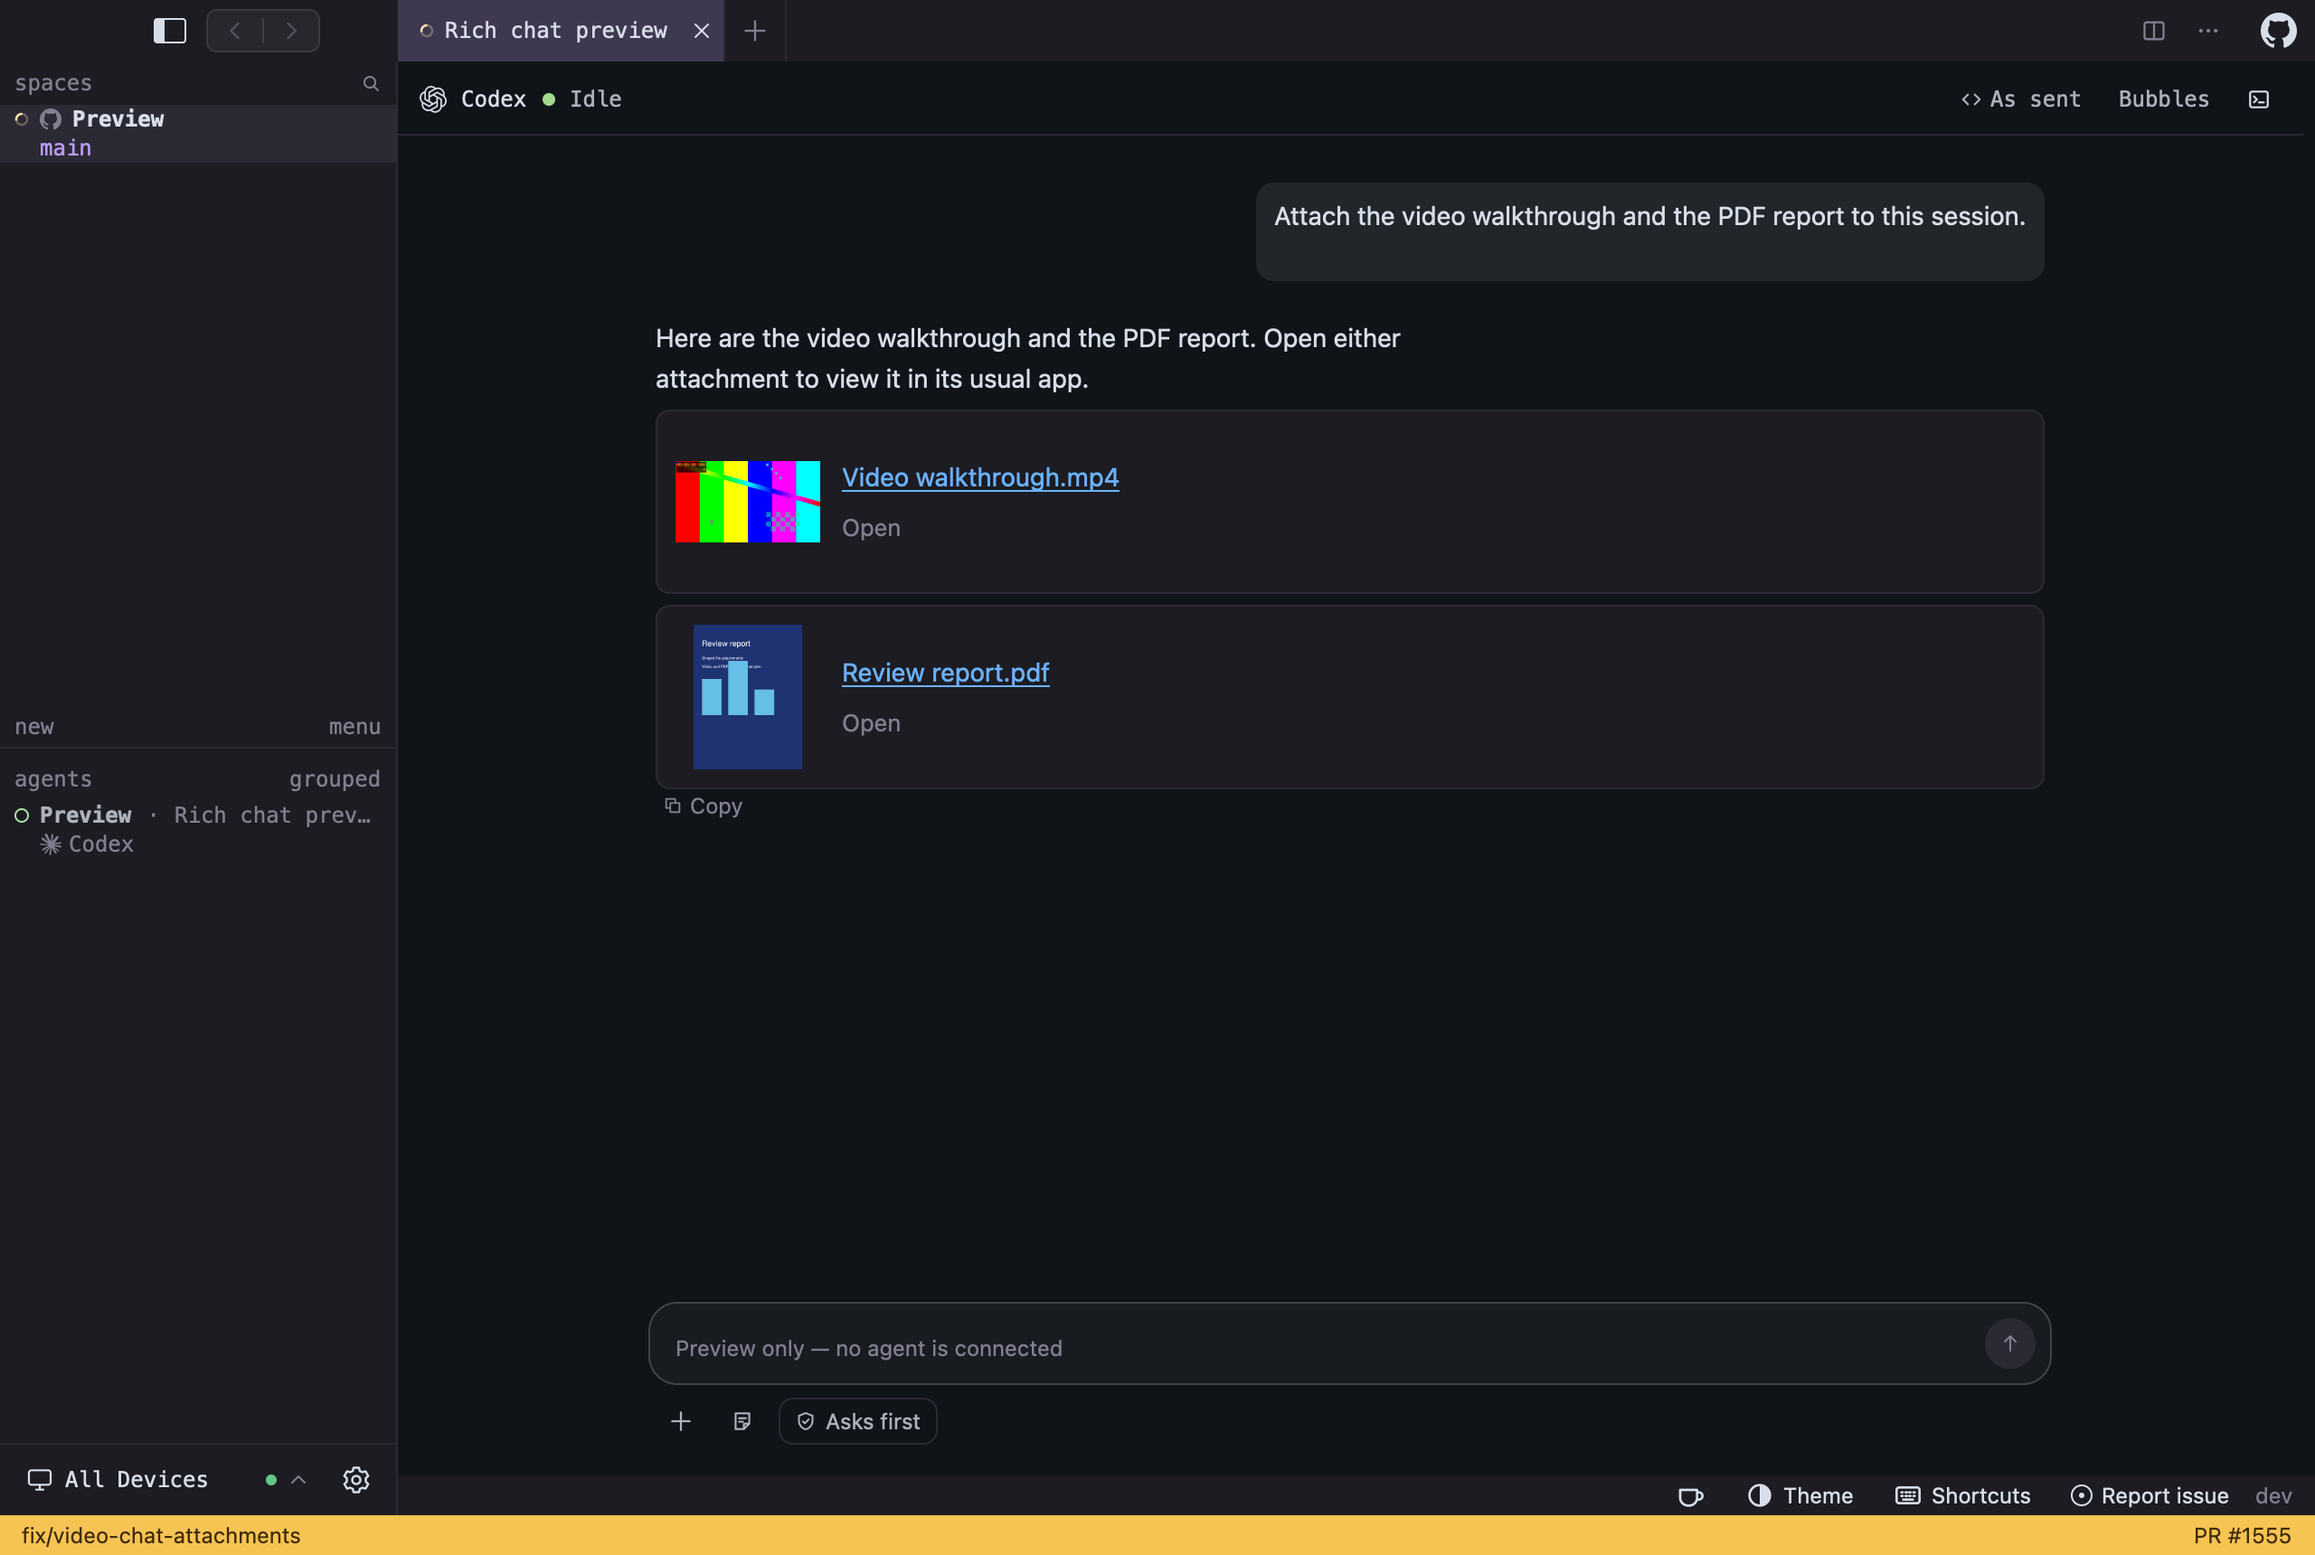
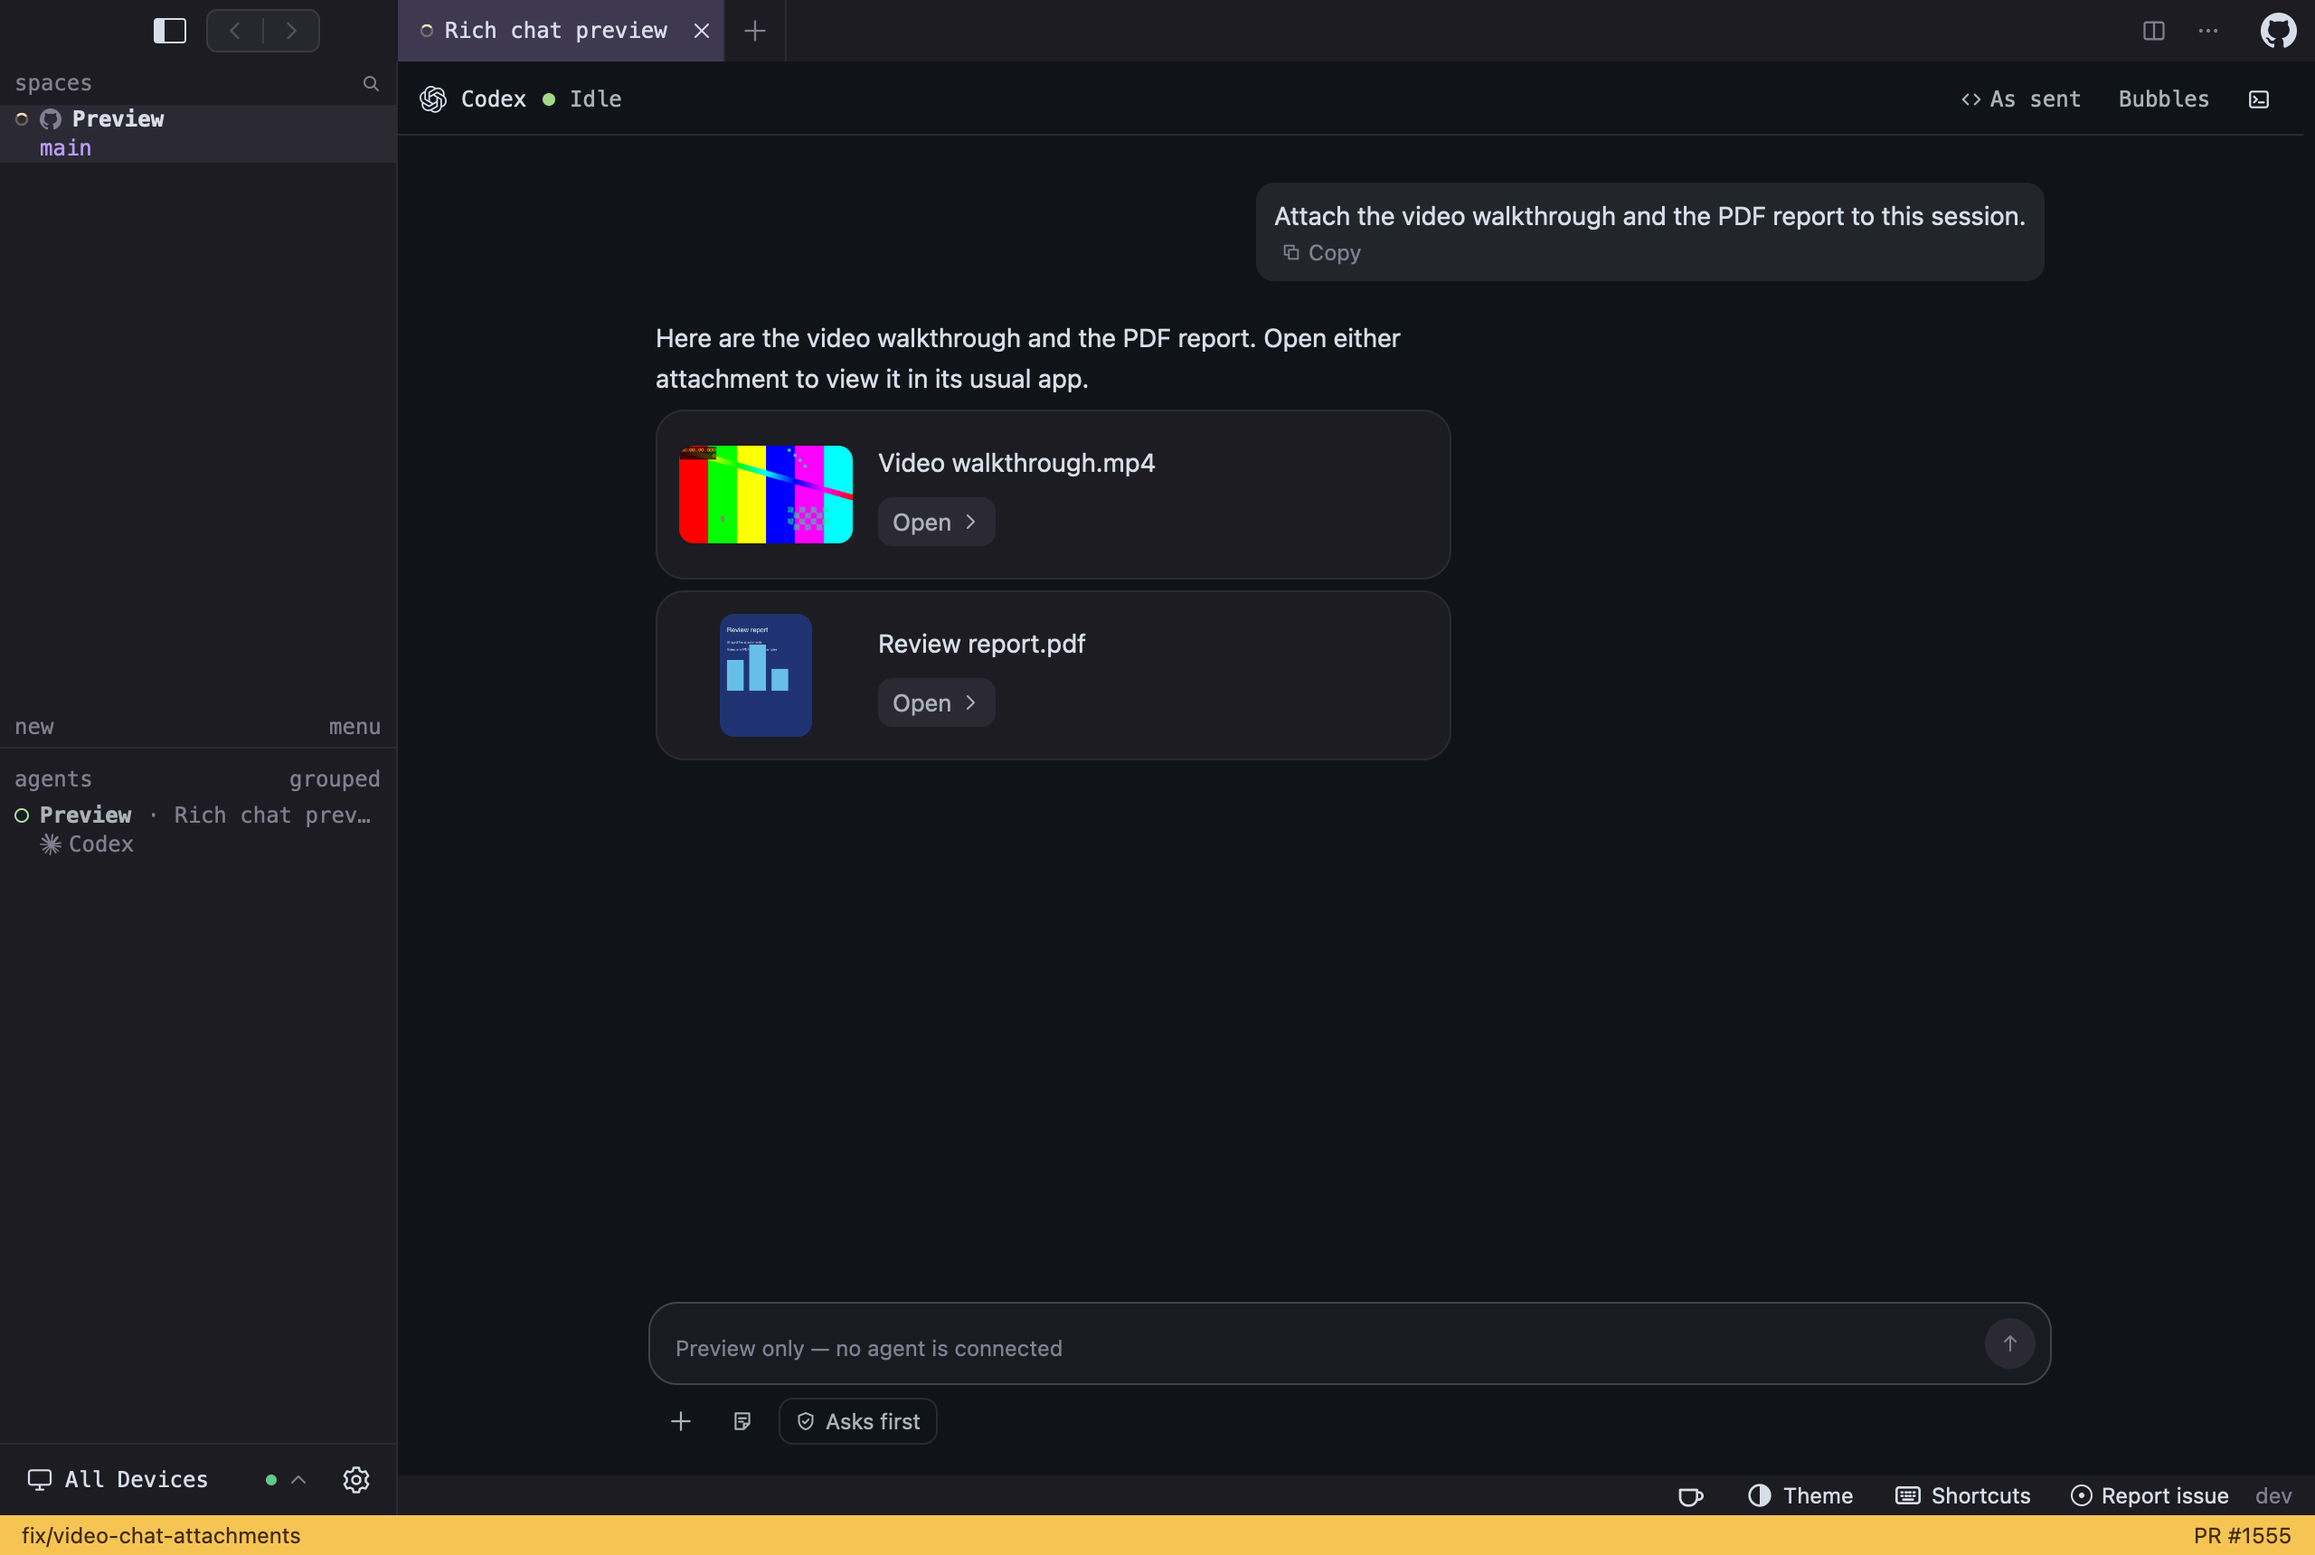
fix(chat): polish attachment cards with rounded previews

Changed region(s): [[0.2812, 0.2773, 0.5, 0.5238]]

diff --git a/crates/sheprd-gpui/src/chat/view/files.rs b/crates/sheprd-gpui/src/chat/view/files.rs
@@ -43,18 +43,23 @@ impl SheprdWindow {
                     })
             })
             .flex_none()
-            .w(px(80.))
-            .h(px(80.))
+            .w(px(96.))
+            .h(px(68.))
             .flex()
             .items_center()
             .justify_center()
             .child(match (preview, visuals.shown(id)) {
-                (Some(_), Shown::Ready(drawn)) => img(drawn.texture.clone())
-                    .debug_selector(|| "chat-file-thumbnail".into())
-                    .w(px(80.))
-                    .h(px(80.))
-                    .object_fit(ObjectFit::Contain)
-                    .into_any_element(),
+                (Some(_), Shown::Ready(drawn)) => {
+                    let scale = (96. / drawn.width).min(68. / drawn.height);
+                    img(drawn.texture.clone())
+                        .debug_selector(|| "chat-file-thumbnail".into())
+                        .w(px(drawn.width * scale))
+                        .h(px(drawn.height * scale))
+                        .rounded(px(corners::CONTROL))
+                        .overflow_hidden()
+                        .object_fit(ObjectFit::Contain)
+                        .into_any_element()
+                }
                 _ => crate::icons::icon("icons/file.svg", 32., self.theme.muted),
             });
         let links = Links::new(self, pane_id, cx);
@@ -62,15 +67,17 @@ impl SheprdWindow {
         div()
             .debug_selector(|| "chat-file-card".into())
             .min_w_0()
+            .w(px(440.))
             .max_w_full()
-            .p(px(10.))
-            .rounded(px(corners::CONTROL))
+            .self_start()
+            .p(px(12.))
+            .rounded(px(corners::PANEL + corners::SMALL))
             .border_1()
             .border_color(rgb(self.theme.active))
             .bg(rgb(self.theme.surface))
             .flex()
             .items_center()
-            .gap(px(12.))
+            .gap(px(14.))
             .child(thumbnail)
             .child(
                 div()
@@ -78,14 +85,32 @@ impl SheprdWindow {
                     .min_w_0()
                     .flex()
                     .flex_col()
-                    .gap(px(6.))
+                    .gap(px(8.))
                     .child(content)
                     .child(
                         div()
                             .id("chat-file-open")
                             .debug_selector(|| "chat-file-open".into())
                             .text_size(self.chat_small_text())
-                            .text_color(rgb(self.theme.muted))
+                            .text_color(rgb(self.theme.subtext()))
+                            .self_start()
+                            .flex()
+                            .items_center()
+                            .gap(px(4.))
+                            .when(local, |button| {
+                                button
+                                    .px(px(8.))
+                                    .py(px(3.))
+                                    .rounded(px(corners::CONTROL))
+                                    .bg(rgb(self.theme.active))
+                                    .hover(|button| {
+                                        button.bg(rgb(crate::config::mix(
+                                            self.theme.active,
+                                            self.theme.foreground,
+                                            8,
+                                        )))
+                                    })
+                            })
                             .child(if local {
                                 fl!("chat-file-open")
                             } else {
@@ -93,6 +118,11 @@ impl SheprdWindow {
                             })
                             .when(local, |button| {
                                 button
+                                    .child(crate::icons::icon(
+                                        "icons/chevron-right.svg",
+                                        12.,
+                                        self.theme.subtext(),
+                                    ))
                                     .cursor_pointer()
                                     .on_mouse_down(MouseButton::Left, |_, _, cx| {
                                         cx.stop_propagation()

diff --git a/crates/sheprd-gpui/src/chat/preview.rs b/crates/sheprd-gpui/src/chat/preview.rs
@@ -10,7 +10,9 @@ use std::{
 };
 
 use anyhow::{Context as _, Result, bail};
-use gpui::{App, AppContext as _, AsyncApp, Context, Window, WindowHandle, px, size};
+use gpui::{
+    AnyWindowHandle, App, AppContext as _, AsyncApp, Context, Window, WindowHandle, px, size,
+};
 use sheprd_chat_protocol::{Entry, EntryId, EntryKind, Status, Transcript};
 use sheprd_client::protocol::{
     AgentStatus, CellData, ClientShellPane, CursorState, FrameData, PaneSurfaceFrame,
@@ -231,6 +233,12 @@ async fn run(
     let mut settled = 0;
     loop {
         timer.timer(Duration::from_millis(100)).await;
+        // An occluded fixture may not receive native frame callbacks. Draw
+        // explicitly so layout and visible thumbnail requests still advance.
+        AnyWindowHandle::from(handle).update(cx, |_, window, cx| {
+            window.refresh();
+            window.draw(cx).clear(cx);
+        })?;
         let ready = handle.update(cx, |view, window, cx| -> Result<bool> {
             fit_surface(view);
             // The window's chat poll does not run here; apply its rule for
@@ -758,7 +766,9 @@ fn visuals_ready(view: &SheprdWindow) -> Result<bool> {
                 for part in parts {
                     ids.extend(match part {
                         Part::Diagram(id, _) => vec![*id],
-                        Part::File { id, .. } if pane.prepared.visuals.wants(*id) => vec![*id],
+                        Part::File {
+                            id, destination, ..
+                        } if view.chat_file_thumbnail(PANE, destination).is_some() => vec![*id],
                         Part::Rich(blocks) | Part::Bubble(_, blocks) => blocks
                             .iter()
                             .flat_map(super::rich::Block::visuals)

diff --git a/crates/sheprd-gpui/src/chat/view/rich.rs b/crates/sheprd-gpui/src/chat/view/rich.rs
@@ -199,9 +199,15 @@ impl SheprdWindow {
         // Shape prose as a single run sequence: preserves kerning, wrapping,
         // links and inline-code fonts without allocating one element per word.
         if let Some(Prose { text, spans }) = prose_spans(&content) {
-            let highlights = spans
-                .iter()
-                .map(|(range, style)| (range.clone(), self.rich_style(style, context.accents)));
+            let highlights = spans.iter().map(|(range, style)| {
+                (
+                    range.clone(),
+                    context
+                        .links
+                        .mode
+                        .highlight(self.rich_style(style, context.accents)),
+                )
+            });
             let fonts = spans
                 .iter()
                 .filter(|(_, style)| style.code)
@@ -266,7 +272,13 @@ impl SheprdWindow {
                             .as_ref()
                             .map(|fragment| fragment.range(offset..offset + word.len()));
                         offset += word.len();
-                        let marks = [(0..word.len(), self.rich_style(style, context.accents))];
+                        let marks = [(
+                            0..word.len(),
+                            context
+                                .links
+                                .mode
+                                .highlight(self.rich_style(style, context.accents)),
+                        )];
                         let styled =
                             styled_text(selected.as_ref(), word.to_owned(), marks, &self.theme);
                         item = selectable(

diff --git a/crates/sheprd-gpui/src/chat/view/rich/links.rs b/crates/sheprd-gpui/src/chat/view/rich/links.rs
@@ -15,6 +15,19 @@ pub(in crate::chat::view) enum Mode {
     Attachment,
 }
 
+impl Mode {
+    /// A file card supplies its own affordance; its selectable filename reads
+    /// as a label while preserving the same link target and click handling.
+    pub(super) fn highlight(self, mut style: HighlightStyle) -> HighlightStyle {
+        if matches!(self, Self::Attachment) {
+            style.color = None;
+            style.underline = None;
+            style.font_weight.get_or_insert(FontWeight::MEDIUM);
+        }
+        style
+    }
+}
+
 #[derive(Clone)]
 pub(in crate::chat::view) struct Links {
     view: WeakEntity<SheprdWindow>,

diff --git a/docs/screenshots/chat-file-attachments/README.md b/docs/screenshots/chat-file-attachments/README.md
@@ -3,7 +3,8 @@
 These macOS captures show the native chat renderer with a synthetic agent
 reply containing standalone links to a real synthetic video and PDF. Their
 Quick Look thumbnails show a video frame and the first PDF page. No personal
-session or file contents are included.
+session or file contents are included. The compact cards have rounded corners,
+rounded preview edges, neutral filename labels, and a separate Open button.
 
 - [Dark theme](dark.png)
 - [Light theme](light.png)
@@ -24,8 +25,8 @@ Set `HERDR_TEST_RICH_CHAT_THEME=light` for light mode, or
 
 These screenshots verify the visible file cards, native thumbnails, and Open
 controls. They do not exercise external media/PDF applications or attachment
-delivery to a live agent. The same sample conversation before thumbnails is
-available in the [previous native capture](https://github.com/sheprd-labs/sheprd/blob/2c2101953199ee796a8c1170bf8a19cb4d639c99/docs/screenshots/chat-file-attachments/dark.png).
+delivery to a live agent. The same sample conversation before the card polish is
+available in the [previous native capture](https://github.com/sheprd-labs/sheprd/blob/810fb82f2c522075cc48ad3f74afc734a4f38e10/docs/screenshots/chat-file-attachments/dark.png).
 No VM or installed app was changed.
 
 Thumbnails are generated only for local PDF/video attachments on macOS.
